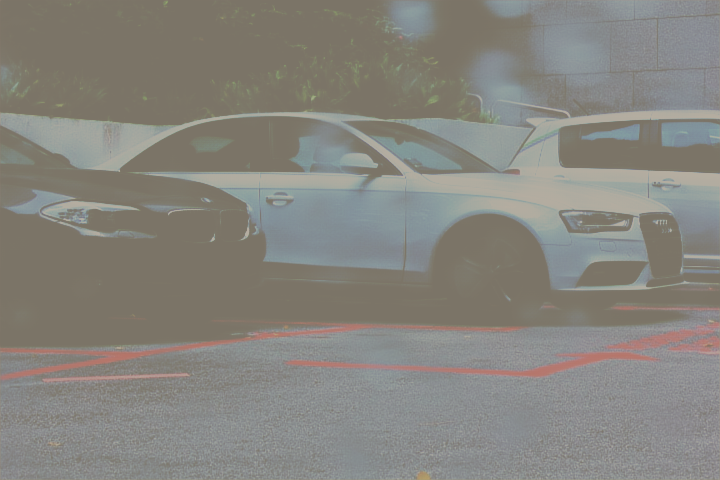
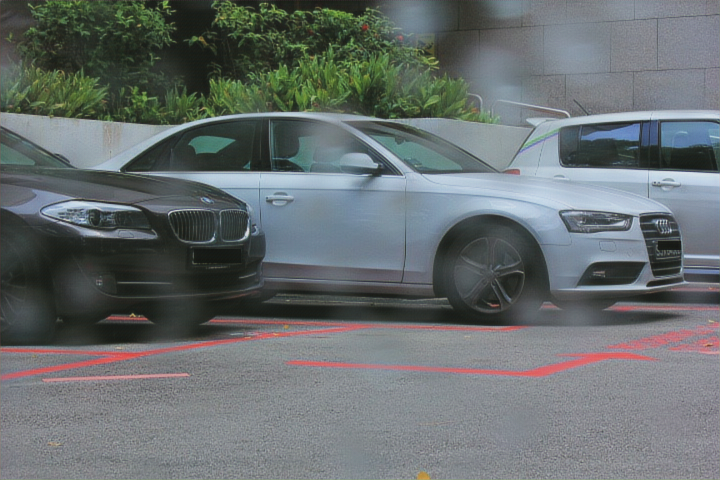
solved the darkness issue in the image

diff --git a/src/models/restoration_model.py b/src/models/restoration_model.py
@@ -3,6 +3,7 @@ import torch.nn as nn
 import torch.nn.functional as F
 from PIL import Image
 from torchvision import transforms
+import numpy as np
 
 class AttentionBlock(nn.Module):
     def __init__(self, in_channels):
@@ -113,31 +114,30 @@ class RainRemovalModel(nn.Module):
         
         return dec1
 
-    def process_image(self, image_path: str, output_path: str) -> None:
+    def process_image(self, input_path: str, output_path: str):
         """Process a single image and save the result"""
+        device = next(self.parameters()).device
+        
         # Load and preprocess image
-        image = Image.open(image_path).convert('RGB')
-        transform = transforms.Compose([
-            transforms.ToTensor(),
-            transforms.Normalize(mean=[0.485, 0.456, 0.406], std=[0.229, 0.224, 0.225])  # Standard ImageNet normalization
-        ])
-        image_tensor = transform(image).unsqueeze(0)
+        img = Image.open(input_path).convert('RGB')
+        img_tensor = torch.from_numpy(np.array(img)).float() / 255.0
+        img_tensor = img_tensor.permute(2, 0, 1).unsqueeze(0).to(device)
         
         # Process image
         with torch.no_grad():
-            output = self(image_tensor)
+            output = self(img_tensor)
         
-        # Convert output to image
-        output = output.squeeze(0).cpu()
-        # Denormalize using ImageNet stats
-        mean = torch.tensor([0.485, 0.456, 0.406]).view(3, 1, 1)
-        std = torch.tensor([0.229, 0.224, 0.225]).view(3, 1, 1)
-        output = output * std + mean
-        output = output.clamp(0, 1)
-        output = transforms.ToPILImage()(output)
+        # Convert output to numpy array
+        output = output[0].cpu().numpy().transpose(1, 2, 0)
+        
+        # Ensure values are in [0,1] range
+        output = np.clip(output, 0, 1)
+        
+        # Convert to uint8
+        output = (output * 255).astype(np.uint8)
         
         # Save result
-        output.save(output_path)
+        Image.fromarray(output).save(output_path)
 
 class EncoderDecoderModel(nn.Module):
     def __init__(self, in_channels=3):

diff --git a/src/evaluate.py b/src/evaluate.py
@@ -94,9 +94,16 @@ def evaluate_model(model: VideoRestorationModel,
             for metric in total_metrics:
                 total_metrics[metric] += batch_metrics[metric]
 
-            # Save restored image
+            # Process and save restored image
             restored_img = output[0].cpu().numpy().transpose(1, 2, 0)
+            
+            # Ensure values are in [0,1] range
+            restored_img = np.clip(restored_img, 0, 1)
+            
+            # Convert to uint8
             restored_img = (restored_img * 255).astype(np.uint8)
+            
+            # Convert to BGR for OpenCV
             restored_img = cv2.cvtColor(restored_img, cv2.COLOR_RGB2BGR)
             
             # Get original filename from the dataset
